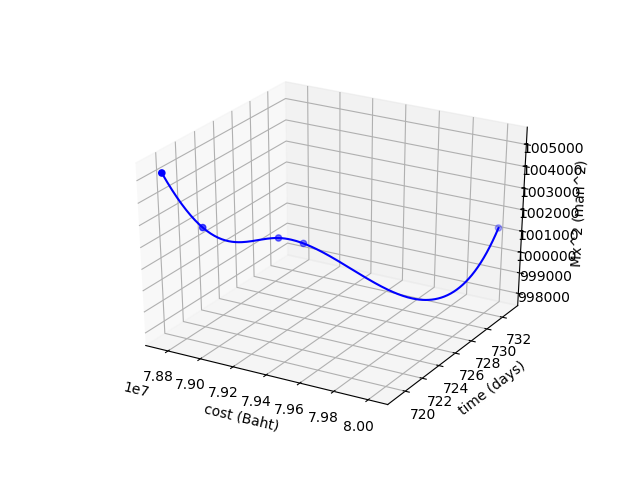
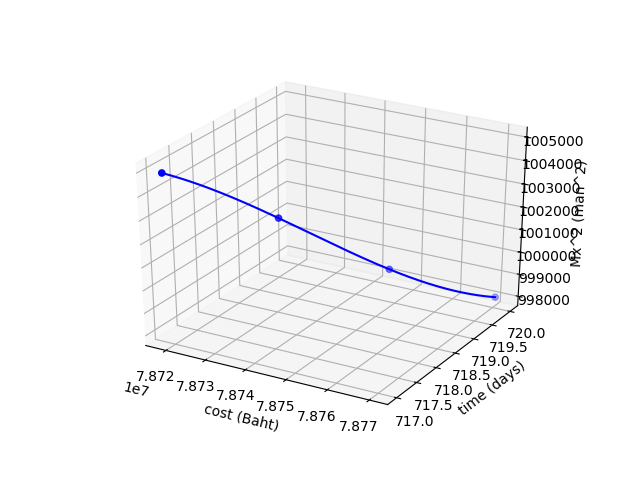
Test 30 gen

Changed region(s): [[0.2188, 0.1875, 0.9062, 0.9062], [0.5312, 0.875, 0.5938, 0.9062]]

diff --git a/Scheduling_Optimization_new.py b/Scheduling_Optimization_new.py
@@ -7,10 +7,10 @@ from timeit import default_timer as timer
 from scipy import interpolate
 
 # Set general parameters
-starting_population_size = 100
-maximum_generation = 10
-minimum_population_size = 80
-maximum_population_size = 100
+starting_population_size = 500
+maximum_generation = 30
+minimum_population_size = 300
+maximum_population_size = 500
 print_interval = 1
 
 Start_Date = pd.to_datetime('October 17, 2018 5:00 PM', format='%B %d, %Y %I:%M %p')
